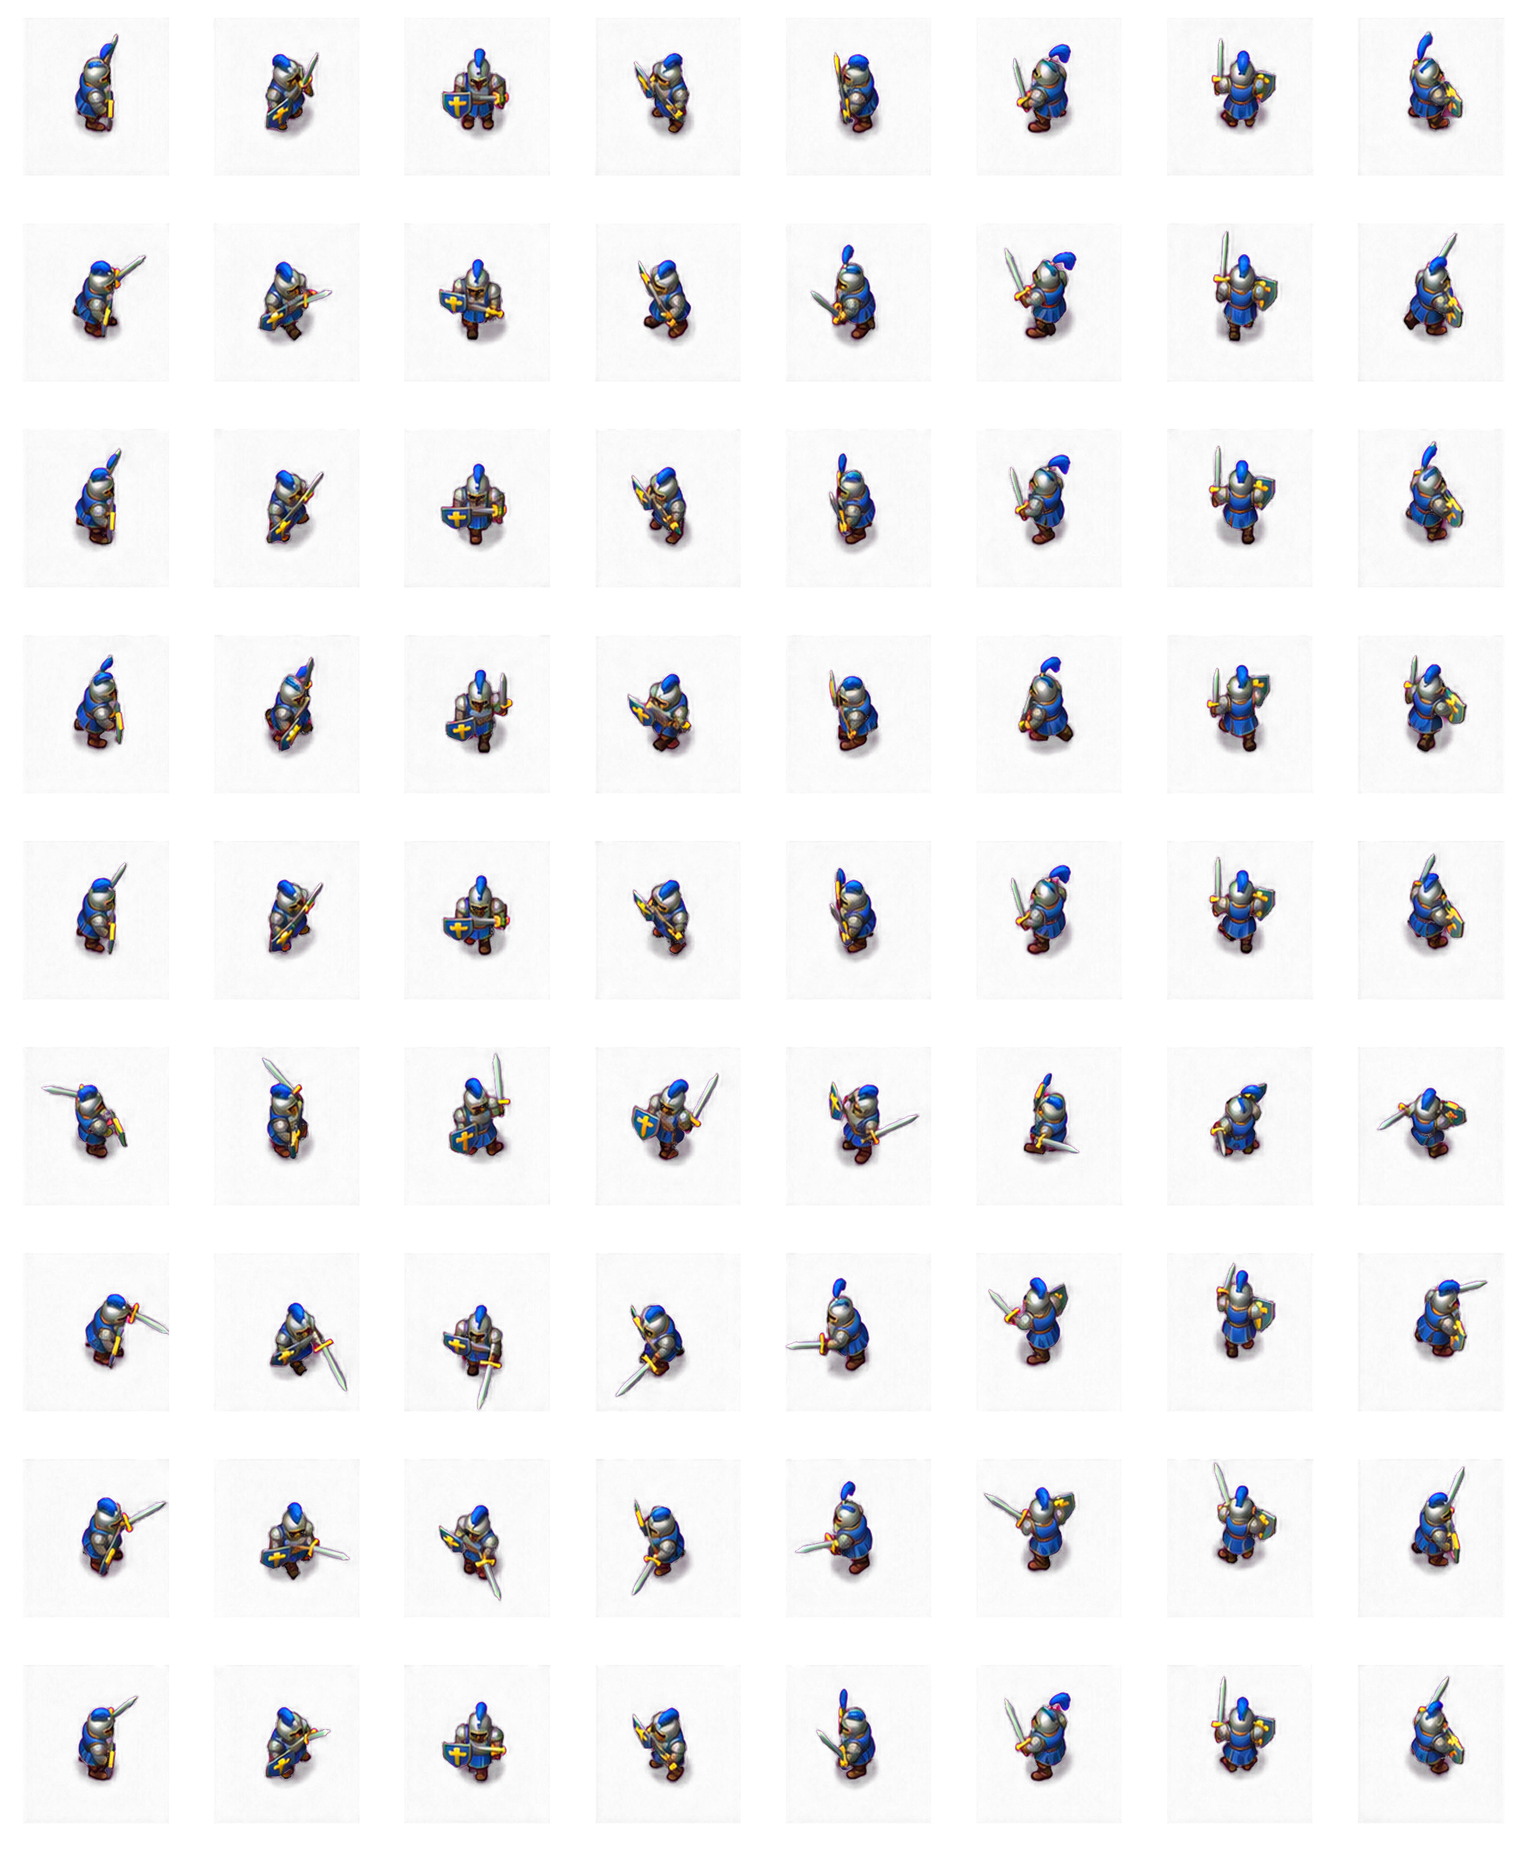
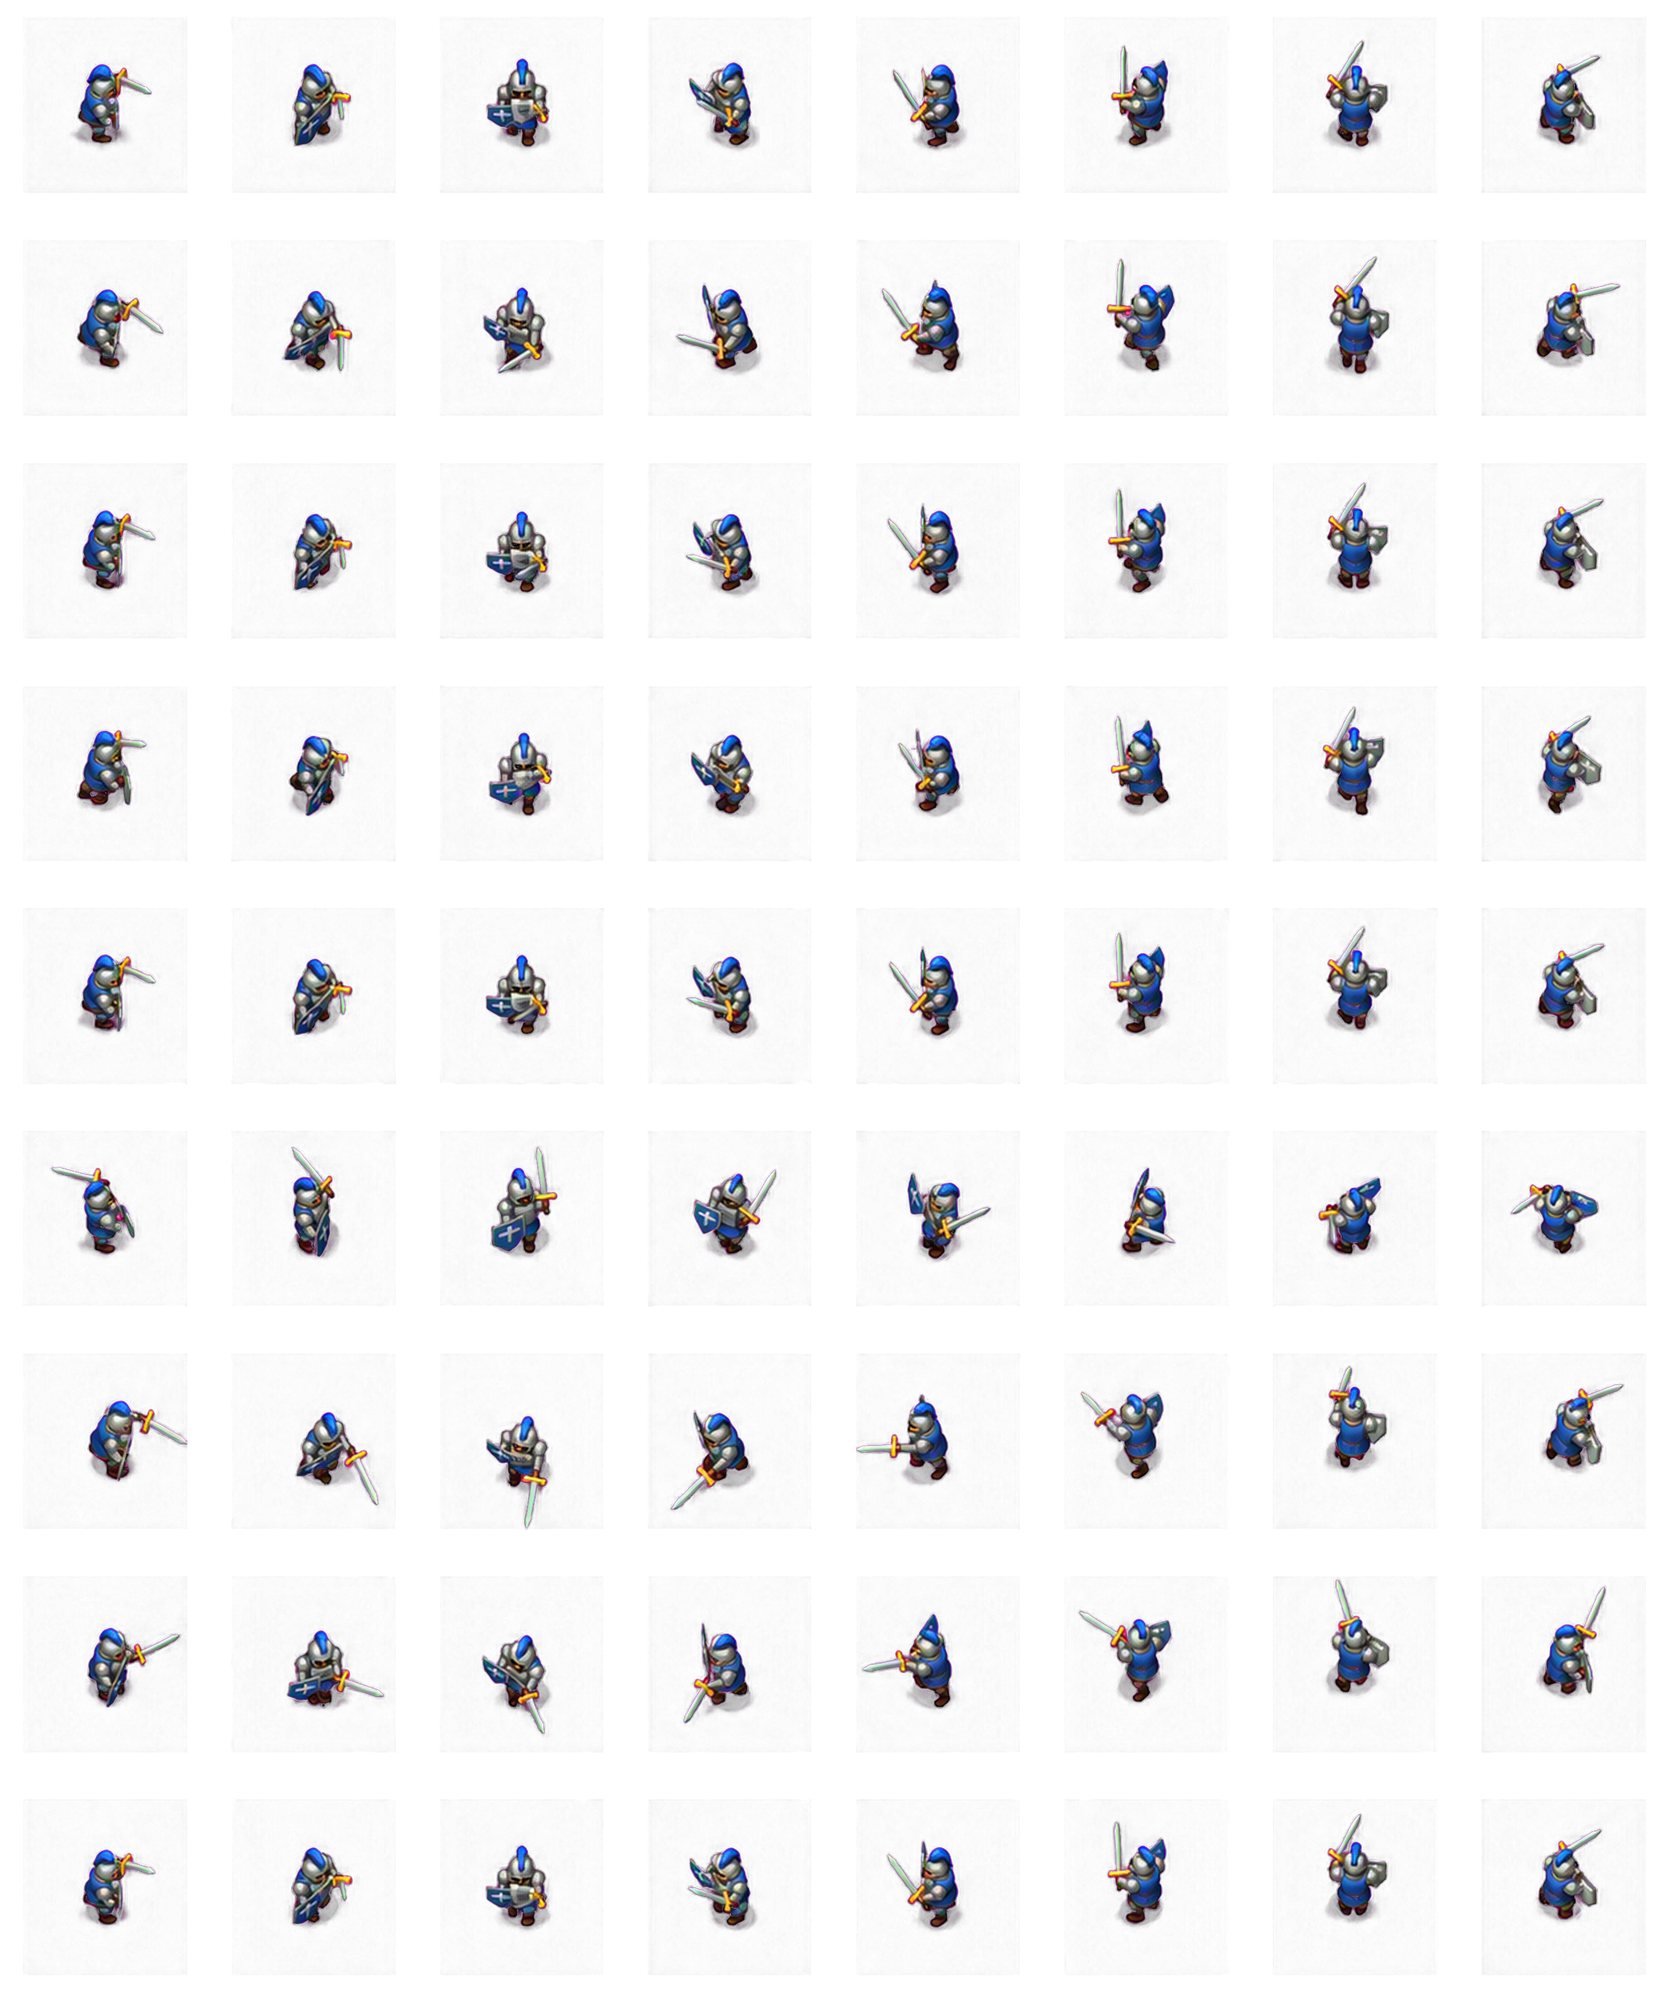
A consistency check for painted sheets, and a footman the painter no longer gives two swords
tools/restyle.py check judges every painted cell against its stand-in through
sagaforge.restyle's vision judge (two rows by four columns per call, counting weapons,
shields, heads and mounts against the unit's INVENTORY); --fix re-renders a questioned
sheet with the complaints in its prompt and installs a candidate only when fewer cells
are questioned, so the best of the rounds ends up installed.

The footman's second sword came from the stand-in: at rest the blade stood nearly
vertical and foreshortened to a stub with a gold bar from the game's camera, and the
shield carried a raised gold cross, so from some facings the painter saw two hilts. The
sword is now held forward, high and diagonally out (one visible blade from every
facing) and the shield's emblem is flat and pale, so gold means the crossguard only.
The footman's sheet is re-rendered on those stand-ins: two questioned cells, down from
seven to ten.

diff --git a/tools/restyle.py b/tools/restyle.py
@@ -5,6 +5,8 @@
     uv run python tools/restyle.py cut DIR                   # key, register, check; install into warband/assets/restyled
     uv run python tools/restyle.py preview DIR OUT_DIR       # walk/attack GIFs, original above restyled
     uv run python tools/restyle.py refresh DIR               # all four in a row; previews land in DIR/previews
+    uv run python tools/restyle.py check DIR [--fix]         # a vision judge compares every painted cell with its stand-in;
+                                                             # --fix re-renders a sheet with the complaints in its prompt
 
 ``--race`` and ``--units`` narrow every step; ``render --provider openrouter --model ...``
 uses an OpenRouter image model instead of Codex's built-in tool.  The sheets are rendered
@@ -49,7 +51,7 @@ TEAM = "blue is the team colour and must stay this blue"
 SUBJECTS: dict[tuple[Race, UnitType], str] = {
     (Race.HUMAN, UnitType.PEASANT): f"a human peasant worker in a blue tunic ({TEAM}) and a cloth cap, carrying a woodcutter's axe",
     (Race.HUMAN, UnitType.FOOTMAN): f"a human footman: a stocky soldier in a steel helmet with a blue plume and mail, blue tunic ({TEAM}), "
-                                    "a kite shield with a gold cross, and a sword",
+                                    "a blue kite shield with a pale cross, and one sword with a gold crossguard",
     (Race.HUMAN, UnitType.ARCHER): f"a human archer in a dark green hooded cloak over a blue tunic ({TEAM}), with a longbow and a quiver of arrows",
     (Race.HUMAN, UnitType.KNIGHT): f"a human knight in full plate on an armoured warhorse with blue caparison and trim ({TEAM}), carrying a lance and a shield",
     (Race.HUMAN, UnitType.SCOUT): f"a human scout: a light rider in leather armour and a blue tunic ({TEAM}) on a fast unarmoured horse",
@@ -91,7 +93,8 @@ FIXES: dict[tuple[UnitType, Resource | None], str] = {
     (UnitType.PEASANT, None): "the axe is gripped with both hands during the chop; the cap sits on the head",
     (UnitType.PEASANT, Resource.LUMBER): "the bundle of logs rests across the shoulder and is held from below with both hands; it never floats above the head",
     (UnitType.PEASANT, Resource.GOLD): "the sack is cradled in the arms against the chest, hands visible on it",
-    (UnitType.FOOTMAN, None): "the weapon is gripped in the right hand, the shield is strapped to the left forearm and follows that arm",
+    (UnitType.FOOTMAN, None): "exactly one sword, gripped in the right hand; the shield is strapped to the left forearm and follows that arm; "
+                              "the pale cross on the shield is a flat painted emblem, never a hilt or a second weapon; the only gold is the sword's crossguard",
     (UnitType.ARCHER, None): "the weapon is held in both hands, aimed in the wind-up and loosed in the strike; the ammunition hangs on the back or belt",
     (UnitType.KNIGHT, None): "the rider sits in a saddle with stirrups and holds the reins; the weapon is gripped and couched under the arm in the strike, not floating beside the mount",
     (UnitType.SCOUT, None): "the rider sits in a saddle and holds the reins; the spear is gripped",
@@ -103,6 +106,16 @@ RACE_FIXES: dict[tuple[Race, UnitType], str] = {
     (Race.ORC, UnitType.KNIGHT): "the ogre stands on its own two feet with no mount; both heads look towards the facing; the club is gripped in both hands",
     (Race.ELF, UnitType.CATAPULT): "the bolt lies in the groove of the ballista and is gone after the shot; the wheels have spokes",
     (Race.DWARF, UnitType.CATAPULT): "the mortar barrel points up and forward on its carriage and recoils in the strike; smoke at the muzzle in the strike and follow-through",
+}
+#: What every painted cell must contain, for the judge to count.
+INVENTORY: dict[UnitType, str] = {
+    UnitType.PEASANT: "one figure, one tool (axe) or one carried load, no shield",
+    UnitType.FOOTMAN: "one figure, exactly one sword (one hilt), exactly one shield",
+    UnitType.ARCHER: "one figure, exactly one bow (or a throwing axe in hand for orcs, a crossbow for dwarves), no shield",
+    UnitType.KNIGHT: "one rider on one mount (the orc ogre: one two-headed giant on foot), one lance or club, at most one shield",
+    UnitType.SCOUT: "one rider on one mount, one spear, no shield",
+    UnitType.CATAPULT: "one siege engine, one throwing arm or barrel, wheels, at most one projectile",
+    UnitType.CLERIC: "one figure, one staff, no shield, no sword",
 }
 PLAUSIBLE = ("The reference is a rough low-poly stand-in. Where its construction is physically implausible (a load floating instead of "
              "held, a prop attached instead of resting, a weapon beside a hand instead of in it), draw the plausible version in the same "
@@ -256,6 +269,11 @@ def main() -> None:
     p = sub.add_parser("cut"); p.add_argument("dir", type=Path); p.add_argument("--provider", default="codex")
     p.add_argument("--tolerate", type=int, default=2, help="flagged cells allowed before a sheet is rejected"); p.set_defaults(run=cmd_cut)
     p = sub.add_parser("preview"); p.add_argument("dir", type=Path); p.add_argument("out", type=Path); p.set_defaults(run=cmd_preview)
+    p = sub.add_parser("check"); p.add_argument("dir", type=Path); p.add_argument("--fix", action="store_true", help="re-render questioned sheets with the complaints in the prompt")
+    p.add_argument("--rounds", type=int, default=3); p.add_argument("--max-bad", type=int, default=12, help="more questioned cells than this means the sheet needs a look, not a retry")
+    p.add_argument("--provider", default="codex"); p.add_argument("--tolerate", type=int, default=2); p.add_argument("--jobs", type=int, default=6)
+    p.add_argument("--sheets", type=Path, default=None, help="judge sheets in this folder instead of the installed ones")
+    p.set_defaults(run=cmd_check)
     p = sub.add_parser("refresh"); p.add_argument("dir", type=Path); p.add_argument("--provider", default="codex", choices=["codex", "openrouter"])
     p.add_argument("--model", default="google/gemini-3.1-flash-image"); p.add_argument("--jobs", type=int, default=4)
     p.add_argument("--force", action="store_true"); p.add_argument("--tolerate", type=int, default=2); p.set_defaults(run=cmd_refresh)
@@ -265,6 +283,85 @@ def main() -> None:
     args = parser.parse_args()
     args.run(args)
 
+
+
+def complaints_text(verdicts: list[dict], sheet: restyle.Sheet) -> str:
+    bad = [v for v in verdicts if not v.get("ok", True)]
+    frames = {c.row: c.tags["frame"] for c in sheet.cells}
+    return "; ".join(f"row {v['row']} ({FRAME_NAMES.get(frames.get(v['row'], ''), '')}), column {v['col']}: {v['issue']}" for v in bad)
+
+
+def check_one(args: argparse.Namespace, race: Race, unit: UnitType, carrying: Resource | None, sheets: Path) -> list[dict]:
+    """Judge the sheet of one subject in *sheets* against its stand-ins; writes DIR/name/check.json
+    and returns the verdicts (empty when there is no sheet)."""
+    name = subject_name(race, unit, carrying)
+    if not restyle.file(sheets / name, "png").exists():
+        print(f"{name}: no sheet in {sheets}")
+        return []
+    sheet, painted = restyle.load_frames(sheets / name)
+    _, originals = build_sheet(race, unit, carrying)
+    names = [FRAME_NAMES[f] for f in unit_frames(unit, carrying)]
+    (args.dir / name).mkdir(parents=True, exist_ok=True)
+    chunks = [(list(range(r, min(r + 2, sheet.rows))), list(range(c, min(c + 4, sheet.cols))))
+              for r in range(0, sheet.rows, 2) for c in range(0, sheet.cols, 4)]
+
+    def judge(chunk: tuple[list[int], list[int]]) -> list[dict]:
+        rows, cols = chunk
+        review_png = args.dir / name / f"review-{rows[0]}-{cols[0]}.png"
+        restyle.review_image(sheet, originals, painted, rows=rows, cols=cols, row_names=names).convert("RGB").save(review_png)
+        return restyle.judge_with_codex(review_png, SUBJECTS[(race, unit)] + CARRY.get(carrying, ""), sheet, rows=rows, cols=cols, inventory=INVENTORY[unit])
+
+    with ThreadPoolExecutor(max_workers=args.jobs) as pool:
+        verdicts = [v for chunk in pool.map(judge, chunks) for v in chunk]
+    (args.dir / name / "check.json").write_text(json.dumps(verdicts, indent=1))
+    bad = [v for v in verdicts if not v.get("ok", True)]
+    print(f"{name}: {len(bad)} of {len(verdicts)} cells questioned" + ("" if not bad else ":"))
+    for v in bad:
+        print(f"   row {v['row']} col {v['col']}: {v['issue']}")
+    return verdicts
+
+
+def questioned(verdicts: list[dict]) -> list[dict]:
+    return [v for v in verdicts if not v.get("ok", True)]
+
+
+def cmd_check(args: argparse.Namespace) -> None:
+    """Judge every selected sheet.  With --fix, re-render a questioned sheet with the complaints
+    in its prompt and install the candidate only when the judge questions fewer of its cells;
+    the best of the rounds ends up installed."""
+    for race, unit, carrying in selected(args):
+        name = subject_name(race, unit, carrying)
+        verdicts = check_one(args, race, unit, carrying, args.sheets or RESTYLED)
+        best = len(questioned(verdicts)) if verdicts else None
+        if best is None or best == 0 or not args.fix:
+            continue
+        if best > args.max_bad:
+            print(f"   {best} questioned cells is more than --max-bad {args.max_bad}: not re-rendering, look at the review images")
+            continue
+        sheet = restyle.Sheet.load(args.dir / name)
+        prompt_text = (args.dir / f"{name}.prompt.txt").read_text()
+        for attempt in range(1, args.rounds + 1):
+            feedback = complaints_text(verdicts, sheet)
+            text = prompt_text + f"\n\nA previous attempt got these cells wrong; do not repeat them: {feedback}."
+            print(f"   round {attempt}: re-rendering with the complaints in the prompt")
+            candidate = args.dir / name / f"candidate-{attempt}"
+            candidate.mkdir(parents=True, exist_ok=True)
+            restyle.render_with_codex(args.dir / f"{name}.png", text, candidate / f"{args.provider}.png")
+            result = restyle.cut(sheet, Image.open(candidate / f"{args.provider}.png"), Image.open(args.dir / f"{name}.png"))
+            if len(result.flagged) > args.tolerate:
+                print(f"   the candidate failed the geometry checks ({len(result.flagged)} flagged)")
+                continue
+            restyle.save_frames(result, sheet, candidate / name)
+            candidate_verdicts = check_one(args, race, unit, carrying, candidate)
+            count = len(questioned(candidate_verdicts))
+            if count < best:
+                restyle.save_frames(result, sheet, RESTYLED / name)
+                best, verdicts = count, candidate_verdicts
+                print(f"   installed the candidate ({count} questioned)")
+            else:
+                print(f"   kept the installed sheet ({best} questioned) over the candidate ({count})")
+            if best == 0:
+                break
 
 
 def cmd_refresh(args: argparse.Namespace) -> None:

diff --git a/warband/textures.py b/warband/textures.py
@@ -1204,18 +1204,23 @@ def _helm(z: float, race: Race, team: Color, radius: float = 0.19) -> Mesh:
 
 #: The hand weapon through a blow: pitched back over the shoulder, driven forward and down,
 #: swept across the body, then settling back to guard.  Walking swings it a little.
-_SWORD_PITCH = {"wind": 55, "strike": -100, "follow": -70, "recover": -35, "walk1": -28, "walk3": 4}
-_SWORD_YAW = {"wind": 15, "follow": -50}  # about the grip: out to the side, then across
+#: At rest the blade is held out at an angle: nearly vertical it foreshortens to a stub from the
+#: game's camera, which painters read as a second shield or hilt.
+_SWORD_PITCH = {"wind": 55, "strike": -100, "follow": -70, "recover": -50, "walk1": -65, "walk3": -45, "stand": -55, "walk2": -55, "walk4": -55}
+#: About the grip: at rest the blade points diagonally forward and out, the compromise that shows
+#: its length from the front as well as from the side facings; the wind-up goes out, the sweep across.
+_SWORD_YAW = {"wind": 15, "follow": -50, "stand": 45, "walk1": 40, "walk2": 45, "walk3": 50, "walk4": 45, "recover": 35}
 _SWORD_SHIFT = {"wind": (0.02, -0.08, 0.06), "strike": (0.0, 0.16, 0.04), "follow": (-0.06, 0.1, -0.02), "walk1": (0, 0.09, 0), "walk3": (0, -0.09, 0)}
 _SHIELD_SHIFT = {"wind": (0, 0.08, 0), "strike": (0.03, -0.05, -0.04), "follow": (0, 0.05, 0), "walk1": (0, -0.07, 0), "walk3": (0, 0.07, 0)}
-_SWORD_GRIP = (0.32, 0.13, 0.5)
+_SWORD_GRIP = (0.3, 0.24, 0.6)  # held forward and high, so hilt and blade stay one visible object from every facing
 
 
 def _sword(frame: str, race: Race = Race.HUMAN) -> Mesh:
     """The race's hand weapon in the right hand: sword, cleaver, curved blade or axe."""
     look = LOOKS[race]
     grip = _SWORD_GRIP
-    handle = _unit_rod((0.32, 0.13, 0.4), (0.32, 0.13, 0.55), 0.043, WOOD_DARK)
+    gx, gy, gz = grip
+    handle = _unit_rod((gx, gy, gz - 0.1), (gx, gy, gz + 0.05), 0.043, WOOD_DARK)
     if race is Race.ORC:
         blade = (_unit_rod((0.32, 0.13, 0.55), (0.32, 0.13, 1.12), 0.04, WOOD_DARK)
                  + _unit_panel([(0.32, 0.16, 0.78), (0.32, 0.5, 0.86), (0.32, 0.46, 1.2), (0.32, 0.16, 1.14)], look.metal)
@@ -1231,6 +1236,7 @@ def _sword(frame: str, race: Race = Race.HUMAN) -> Mesh:
     else:
         blade = (r3.box((0.32, 0.13, 0.85), (0.08, 0.055, 0.59), look.metal) + r3.pyramid((0.32, 0.13, 1.145), (0.08, 0.055), 0.14, look.metal)
                  + r3.box((0.32, 0.13, 0.57), (0.27, 0.09, 0.06), GOLD))
+    blade = _shift(blade, (gx - 0.32, gy - 0.13, gz - 0.5))  # the blades are modelled at the old grip
     mesh = _unit_pitch(blade + handle, _SWORD_PITCH.get(frame, -12), grip)
     mesh = r3.rotate_z(mesh, _SWORD_YAW.get(frame, 0), about=(grip[0], grip[1]))
     return _shift(mesh, _SWORD_SHIFT.get(frame, (0.0, 0.0, 0.0)))
@@ -1285,8 +1291,9 @@ def _shield(x: float, y: float, z: float, team: Color, size: float = 1.0, race: 
     for offset, factor, color in ((0, 1.0, look.metal), (0.025, 0.8, team)):
         mesh += _unit_panel([(x + dx * size * factor, y + offset, z + dz * size * factor)
                              for dx, dz in outline], color)
-    mesh += r3.box((x, y + 0.035, z - 0.015), (0.055 * size, 0.06, 0.34 * size), GOLD)
-    mesh += r3.box((x, y + 0.04, z + 0.075), (0.23 * size, 0.06, 0.055 * size), GOLD)
+    # A flat, pale emblem: raised gold bars read as a second sword hilt when the shield is seen edge-on.
+    mesh += r3.box((x, y + 0.03, z - 0.015), (0.055 * size, 0.012, 0.34 * size), PLASTER)
+    mesh += r3.box((x, y + 0.032, z + 0.075), (0.23 * size, 0.012, 0.055 * size), PLASTER)
     return mesh
 
 
